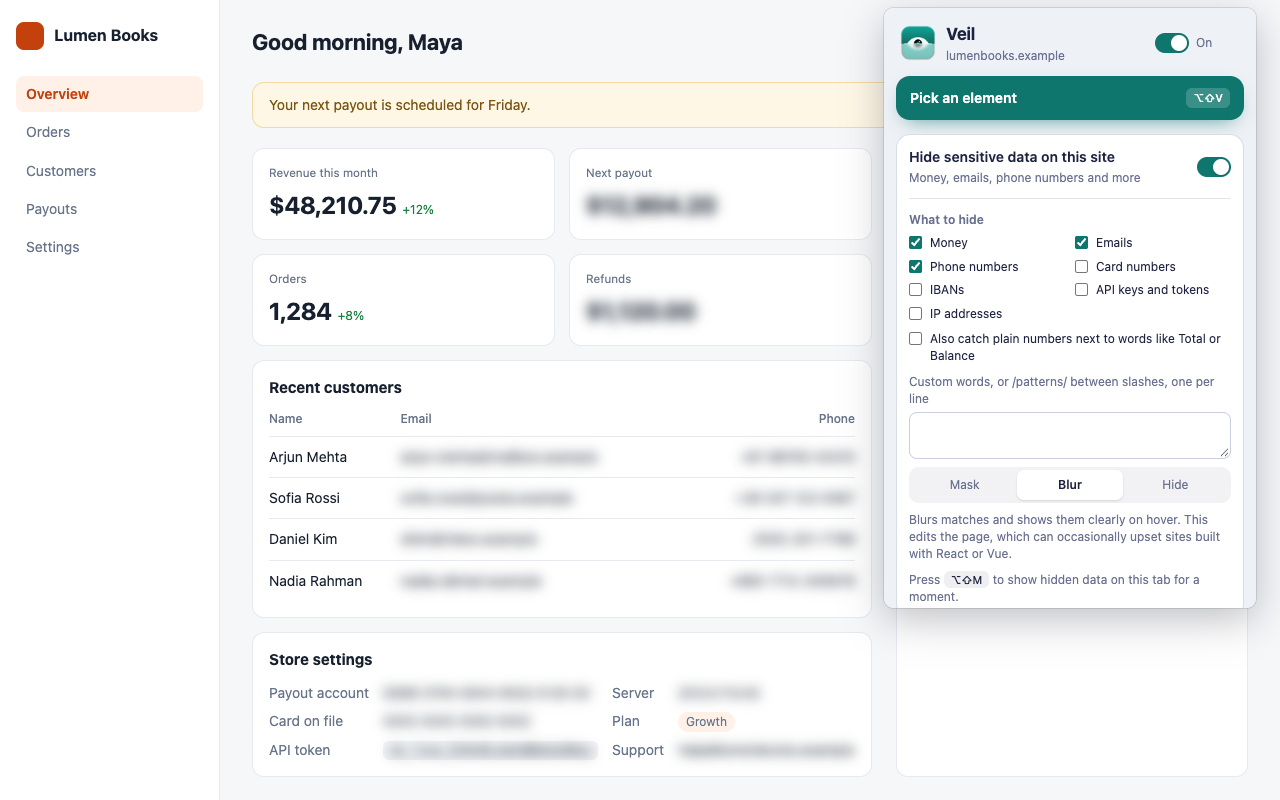
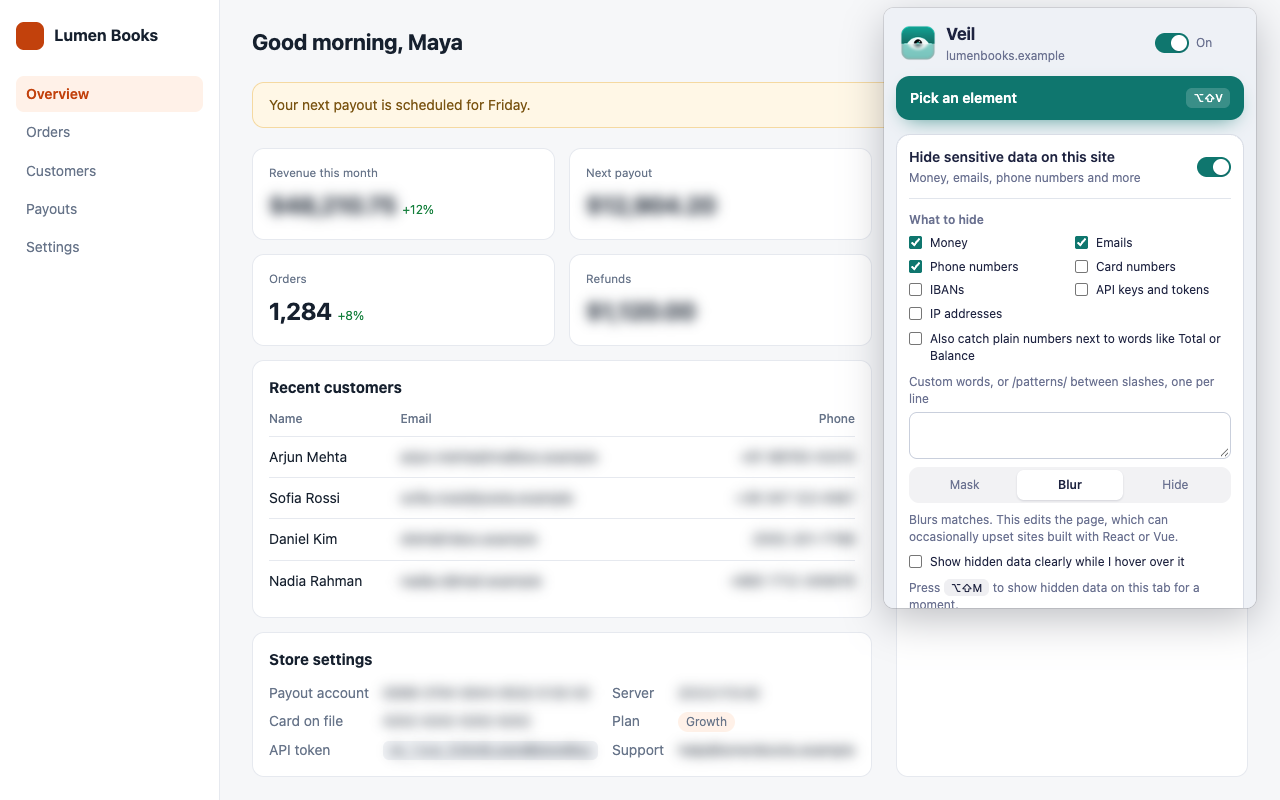
Make the sensitive-data hover reveal opt-in
The Blur style for sensitive data always cleared the blur on hover, with
no way to turn that off. Anyone sharing a screen had the data exposed by
a stray pointer.

The hover rule now depends on a new `hoverReveal` setting, which is off
by default, and the popup shows a checkbox for it while the Blur style is
selected. Mask and Hide are unaffected, as is the blur rule from the
element picker, which keeps its own hover option.

Existing sites on the Blur style lose the hover reveal on the next page
load. The keyboard shortcut still shows the data for a moment.

Claude-Session: https://claude.ai/code/session_012bMV4ttRhtK7m2hc8oDhF7

Changed region(s): [[0.6875, 0.625, 0.9375, 0.7812], [0.1875, 0.2188, 0.3125, 0.2812]]

diff --git a/extension/popup.js b/extension/popup.js
@@ -16,7 +16,7 @@ let pageKey;
 let rules = [];
 let money = null; // sensitive data configuration for this site
 
-const MONEY_DEFAULTS = { enabled: false, style: 'mask', bare: false, blur: 6, excludes: [], types: ['money'], custom: [] };
+const MONEY_DEFAULTS = { enabled: false, style: 'mask', bare: false, blur: 6, hoverReveal: false, excludes: [], types: ['money'], custom: [] };
 const TYPE_NAMES = {
   money: 'Money', email: 'Emails', phone: 'Phone numbers', card: 'Card numbers',
   iban: 'IBANs', key: 'API keys and tokens', ip: 'IP addresses',
@@ -323,7 +323,7 @@ async function init() {
 
 const STYLE_NOTES = {
   mask: 'Covers matches with a solid bar. Safe on every site because the page itself is not changed.',
-  blur: 'Blurs matches and shows them clearly on hover. This edits the page, which can occasionally upset sites built with React or Vue.',
+  blur: 'Blurs matches. This edits the page, which can occasionally upset sites built with React or Vue.',
   hide: 'Makes matches invisible but keeps their space. Safe on every site.',
 };
 
@@ -338,6 +338,8 @@ async function setupMoney(cmds) {
     document.querySelectorAll('[data-style]').forEach((b) => b.setAttribute('aria-pressed', String(b.dataset.style === money.style)));
     $('#styleNote').textContent = STYLE_NOTES[money.style] || '';
     document.querySelectorAll('[data-type]').forEach((c) => { c.checked = money.types.includes(c.dataset.type); });
+    $('#hoverRow').hidden = money.style !== 'blur';
+    $('#moneyHover').checked = !!money.hoverReveal;
     $('#bareRow').hidden = !money.types.includes('money');
     $('#moneyBare').checked = !!money.bare;
     if (document.activeElement !== $('#custom')) $('#custom').value = money.custom.join('\n');
@@ -371,6 +373,7 @@ async function setupMoney(cmds) {
   document.querySelectorAll('[data-type]').forEach((c) => {
     c.onchange = () => save({ types: Object.keys(TYPE_NAMES).filter((t) => $(`[data-type="${t}"]`).checked) });
   });
+  $('#moneyHover').onchange = () => save({ hoverReveal: $('#moneyHover').checked });
   $('#moneyBare').onchange = () => save({ bare: $('#moneyBare').checked });
   $('#custom').onchange = () => save({ custom: $('#custom').value.split('\n').map((x) => x.trim()).filter(Boolean) });
   $('#exclReset').onclick = () => save({ excludes: [] });

diff --git a/tests/e2e/sensitive-data.spec.js b/tests/e2e/sensitive-data.spec.js
@@ -11,6 +11,29 @@ test('blur style wraps and blurs each amount', async ({ page, store }) => {
   await expect(blurred(page)).toHaveCSS('filter', 'blur(6px)');
 });
 
+test('blur stays blurred on hover unless hover reveal is on', async ({ page, store }) => {
+  await store(dataConfig({ style: 'blur' }));
+  await page.goto(`http://${HOST}/data.html`);
+  await expect(blurred(page)).toHaveCSS('filter', 'blur(6px)');
+
+  await blurred(page).hover();
+  await page.waitForTimeout(400); // longer than the filter transition
+
+  await expect(blurred(page)).toHaveCSS('filter', 'blur(6px)');
+});
+
+test('turning hover reveal on clears the blur on hover, without a reload', async ({ page, store }) => {
+  await store(dataConfig({ style: 'blur' }));
+  await page.goto(`http://${HOST}/data.html`);
+  await expect(blurred(page)).toHaveCSS('filter', 'blur(6px)');
+
+  await store(dataConfig({ style: 'blur', hoverReveal: true }));
+  await expect(blurred(page)).toHaveCount(1); // the rescan rewraps the amount
+  await blurred(page).hover();
+
+  await expect(blurred(page)).toHaveCSS('filter', 'none');
+});
+
 // Text covered by the Mask and Hide styles, which use the CSS Highlight API.
 const highlighted = (page) =>
   page.evaluate(() => [...(CSS.highlights.get('veil-money') ?? [])].map((r) => r.toString()));

diff --git a/extension/content.js b/extension/content.js
@@ -847,7 +847,7 @@
   // on the page and mask, blur or hide them. Stored under money:<host>.
   // ---------------------------------------------------------------------------
   const MKEY = `money:${HOST}`;
-  const MONEY_DEFAULTS = { enabled: false, style: 'mask', bare: false, blur: 6, excludes: [], types: ['money'], custom: [] };
+  const MONEY_DEFAULTS = { enabled: false, style: 'mask', bare: false, blur: 6, hoverReveal: false, excludes: [], types: ['money'], custom: [] };
   let money = { ...MONEY_DEFAULTS };
   let moneyRevealed = false;
   let moneyStyle = null;
@@ -888,9 +888,10 @@
     if (!money.enabled || moneyRevealed) return '';
     if (money.style === 'blur') {
       const b = Number(money.blur) || 6;
+      const hover = money.hoverReveal ? `
+veil-money:hover,[${MATTR}]:hover{filter:none!important}` : '';
       return `veil-money,[${MATTR}]{filter:blur(${b}px)!important;transition:filter .15s ease!important}
-veil-money{display:inline-block!important}
-veil-money:hover,[${MATTR}]:hover{filter:none!important}`;
+veil-money{display:inline-block!important}${hover}`;
     }
     const bg = money.style === 'mask' ? 'rgba(106,113,144,.6)' : 'transparent';
     const input = money.style === 'mask' ? '-webkit-text-security:disc!important' : 'color:transparent!important';

diff --git a/extension/popup.html b/extension/popup.html
@@ -60,6 +60,10 @@
           <button type="button" data-style="hide">Hide</button>
         </div>
         <p class="note" id="styleNote"></p>
+        <label class="check" id="hoverRow" hidden>
+          <input type="checkbox" id="moneyHover">
+          <span>Show hidden data clearly while I hover over it</span>
+        </label>
         <div class="excl" id="exclRow" hidden>
           <span id="exclText"></span>
           <button type="button" id="exclReset">Reset</button>

diff --git a/README.md b/README.md
@@ -83,10 +83,11 @@ Veil skips version numbers, years, percentages and phone numbers. It also skips 
 |---|---|---|
 | Mask (default) | Solid grey bar over the match | No. Uses Chrome's CSS Highlight API, so it's safe on React and Vue sites |
 | Hide | Match is invisible, space kept | No |
-| Blur | Blurred, clear on hover | Yes. Each match is wrapped in a `<veil-money>` tag, which can occasionally upset framework-rendered pages |
+| Blur | Blurred | Yes. Each match is wrapped in a `<veil-money>` tag, which can occasionally upset framework-rendered pages |
 
 **Controls:**
 - **Alt+Shift+M** shows the hidden data on the current tab. Press it again to hide it.
+- The Blur style can also clear on hover. That is off by default. Turn on **Show hidden data clearly while I hover over it** under the style buttons.
 - If Veil covers something that is not sensitive, pick it (or right-click it and choose **Veil this element**), then click **Keep this visible when hiding sensitive data**. The popup shows how many elements are kept visible and lets you reset them.
 
 **Won't be caught:**
@@ -95,7 +96,7 @@ Veil skips version numbers, years, percentages and phone numbers. It also skips 
 - Text styled with gradient fills, which the mask can't cover.
 - Numbers with no currency, when the plain-number setting is off.
 - Data already on screen before the first scan. The scan starts early, but a brief flash is possible on slow pages.
-- Mask and Hide have no hover reveal. Use the shortcut instead.
+- Hover reveal works with the Blur style only, and only when you turn it on. With Mask and Hide, use the shortcut instead.
 
 ## Popup
 

diff --git a/CHANGELOG.md b/CHANGELOG.md
@@ -6,6 +6,10 @@ The format follows [Keep a Changelog](https://keepachangelog.com/en/1.1.0/), and
 
 ## [Unreleased]
 
+### Changed
+
+- The Blur style for sensitive data no longer shows the data on hover by default. Turn on **Show hidden data clearly while I hover over it** in the popup to get that behavior back.
+
 ## [1.0.3] - 2026-09-19
 
 ### Removed
